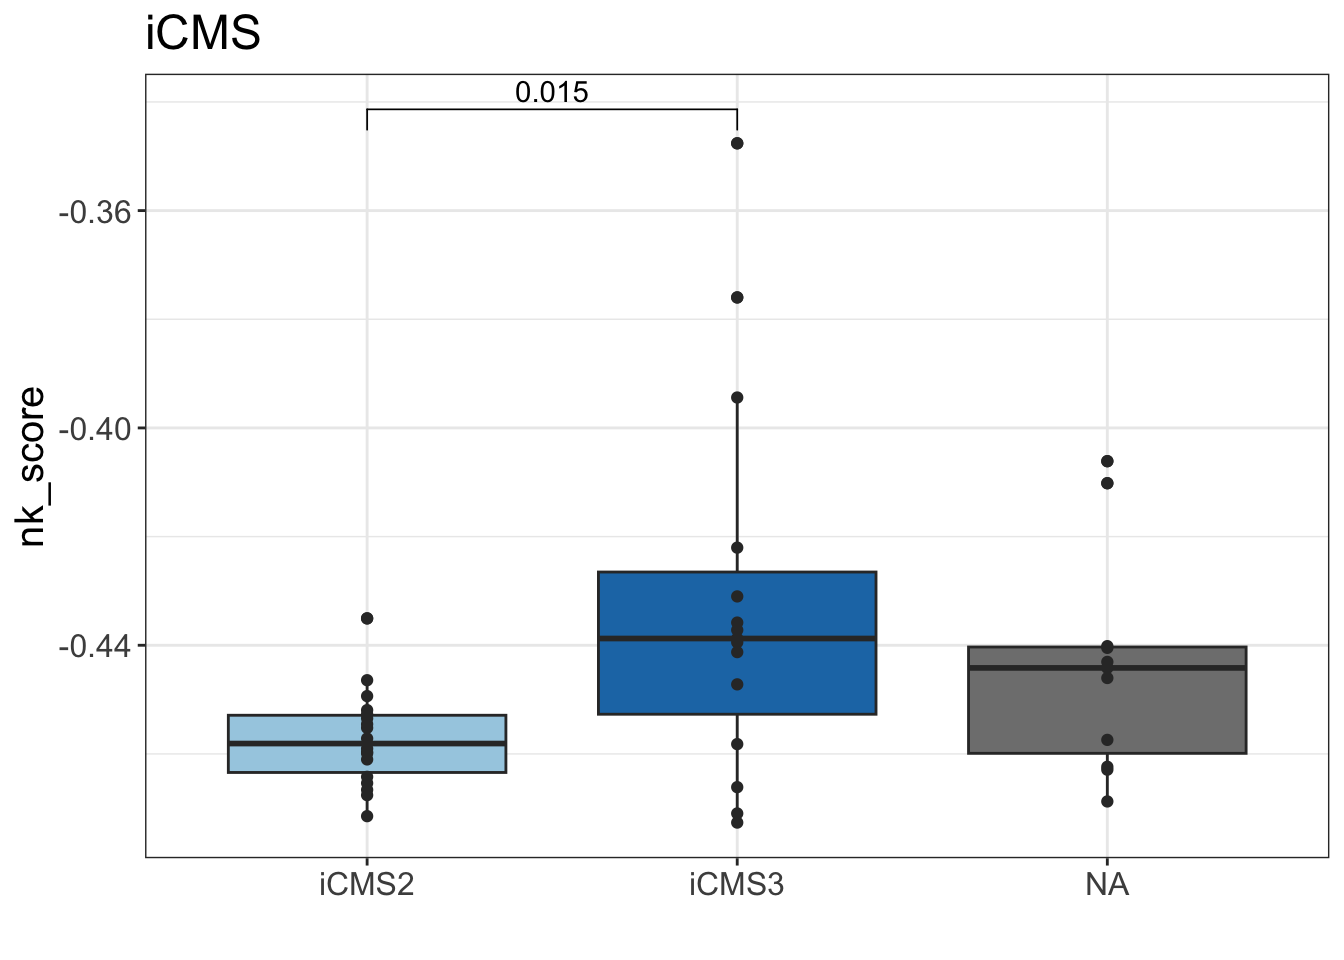
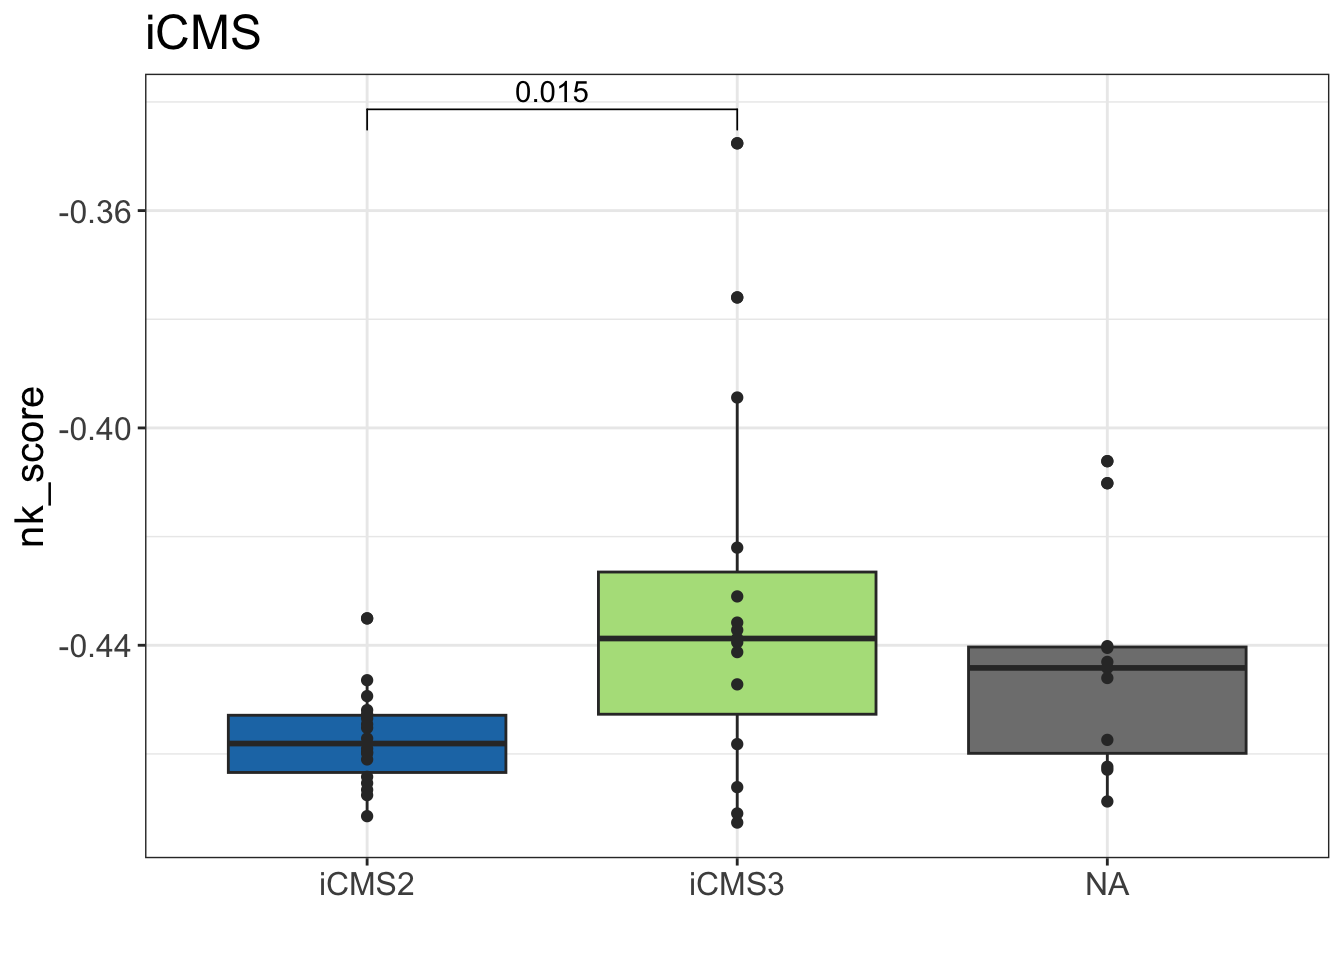
Build site.

Changed region(s): [[0.4375, 0.5938, 0.6562, 0.75], [0.1562, 0.7188, 0.375, 0.8125]]

diff --git a/docs/CRLM_Subtyping.html b/docs/CRLM_Subtyping.html
@@ -521,15 +521,15 @@ project makes it easier to run your code on other machines.</p>
 <div class="panel panel-default">
 <div class="panel-heading">
 <p class="panel-title">
-<a data-toggle="collapse" data-parent="#workflowr-checks" href="#strongRepositoryversionstrongahrefhttpsgithubcomrobinawagnerNKCRLMtree5f806afd4a0e3332845dca016ce51f0d60a3547atargetblank5f806afa">
+<a data-toggle="collapse" data-parent="#workflowr-checks" href="#strongRepositoryversionstrongahrefhttpsgithubcomrobinawagnerNKCRLMtree1e48d213cd44ced3d59726ff1fc3f52f8669bfactargetblank1e48d21a">
 <span class="glyphicon glyphicon-ok text-success"
 aria-hidden="true"></span> <strong>Repository version:</strong>
-<a href="https://github.com/robin-a-wagner/NK_CRLM/tree/5f806afd4a0e3332845dca016ce51f0d60a3547a" target="_blank">5f806af</a>
+<a href="https://github.com/robin-a-wagner/NK_CRLM/tree/1e48d213cd44ced3d59726ff1fc3f52f8669bfac" target="_blank">1e48d21</a>
 </a>
 </p>
 </div>
 <div
[2 lines of base64/hex data omitted]
 class="panel-collapse collapse">
 <div class="panel-body">
 <p>
@@ -539,7 +539,7 @@ reproducibility.
 </p>
 <p>
 The results in this page were generated with repository version
-<a href="https://github.com/robin-a-wagner/NK_CRLM/tree/5f806afd4a0e3332845dca016ce51f0d60a3547a" target="_blank">5f806af</a>.
+<a href="https://github.com/robin-a-wagner/NK_CRLM/tree/1e48d213cd44ced3d59726ff1fc3f52f8669bfac" target="_blank">1e48d21</a>.
 See the <em>Past versions</em> tab to see a history of the changes made
 to the R Markdown and HTML files.
 </p>
@@ -611,6 +611,41 @@ Message
 </tr>
 </thead>
 <tbody>
+<tr>
+<td>
+Rmd
+</td>
+<td>
+<a href="https://github.com/robin-a-wagner/NK_CRLM/blob/1e48d213cd44ced3d59726ff1fc3f52f8669bfac/analysis/CRLM_Subtyping.Rmd" target="_blank">1e48d21</a>
+</td>
+<td>
+Robin Wagner (UoM Laptop)
+</td>
+<td>
+2023-08-24
+</td>
+<td>
+Added stat tests to final subtype boxplots, had to pull apart into two
+graphs
+</td>
+</tr>
+<tr>
+<td>
+html
+</td>
+<td>
+<a href="https://rawcdn.githack.com/robin-a-wagner/NK_CRLM/90d10df7c4853e27a797633648d49f791ac4b18f/docs/CRLM_Subtyping.html" target="_blank">90d10df</a>
+</td>
+<td>
+Robin Wagner (UoM Laptop)
+</td>
+<td>
+2023-08-24
+</td>
+<td>
+Build site.
+</td>
+</tr>
 <tr>
 <td>
 Rmd
@@ -1015,6 +1050,17 @@ Date
 <tbody>
 <tr>
 <td>
+<a href="https://github.com/robin-a-wagner/NK_CRLM/blob/90d10df7c4853e27a797633648d49f791ac4b18f/docs/figure/CRLM_Subtyping.Rmd/unnamed-chunk-11-1.png" target="_blank">90d10df</a>
+</td>
+<td>
+Robin Wagner (UoM Laptop)
+</td>
+<td>
+2023-08-24
+</td>
+</tr>
+<tr>
+<td>
 <a href="https://github.com/robin-a-wagner/NK_CRLM/blob/086dc970d61f95110a4d5944db50fdab08da7d3f/docs/figure/CRLM_Subtyping.Rmd/unnamed-chunk-11-1.png" target="_blank">086dc97</a>
 </td>
 <td>
@@ -1046,10 +1092,47 @@ Robin Wagner (UoM Laptop)
   theme_bw()  +
   theme(text = element_text(size = 15),
         legend.position = &quot;none&quot;) +
-  scale_fill_manual(values = brewer.pal(8, &quot;Paired&quot;)) +
+  scale_fill_manual(values = brewer.pal(3, &quot;Paired&quot;)[c(2:3)]) +
   labs(x = &quot;&quot;) +
   ggtitle(&quot;iCMS&quot;)</code></pre>
 <p><img src="figure/CRLM_Subtyping.Rmd/unnamed-chunk-11-2.png" width="672" style="display: block; margin: auto;" /></p>
+<p>
+<button type="button" class="btn btn-default btn-xs btn-workflowr btn-workflowr-fig" data-toggle="collapse" data-target="#fig-unnamed-chunk-11-2">
+Past versions of unnamed-chunk-11-2.png
+</button>
+</p>
+<div id="fig-unnamed-chunk-11-2" class="collapse">
+<div class="table-responsive">
+<table class="table table-condensed table-hover">
+<thead>
+<tr>
+<th>
+Version
+</th>
+<th>
+Author
+</th>
+<th>
+Date
+</th>
+</tr>
+</thead>
+<tbody>
+<tr>
+<td>
+<a href="https://github.com/robin-a-wagner/NK_CRLM/blob/90d10df7c4853e27a797633648d49f791ac4b18f/docs/figure/CRLM_Subtyping.Rmd/unnamed-chunk-11-2.png" target="_blank">90d10df</a>
+</td>
+<td>
+Robin Wagner (UoM Laptop)
+</td>
+<td>
+2023-08-24
+</td>
+</tr>
+</tbody>
+</table>
+</div>
+</div>
 <br>
 <p>
 <button type="button" class="btn btn-default btn-workflowr btn-workflowr-sessioninfo" data-toggle="collapse" data-target="#workflowr-sessioninfo" style="display: block;">
